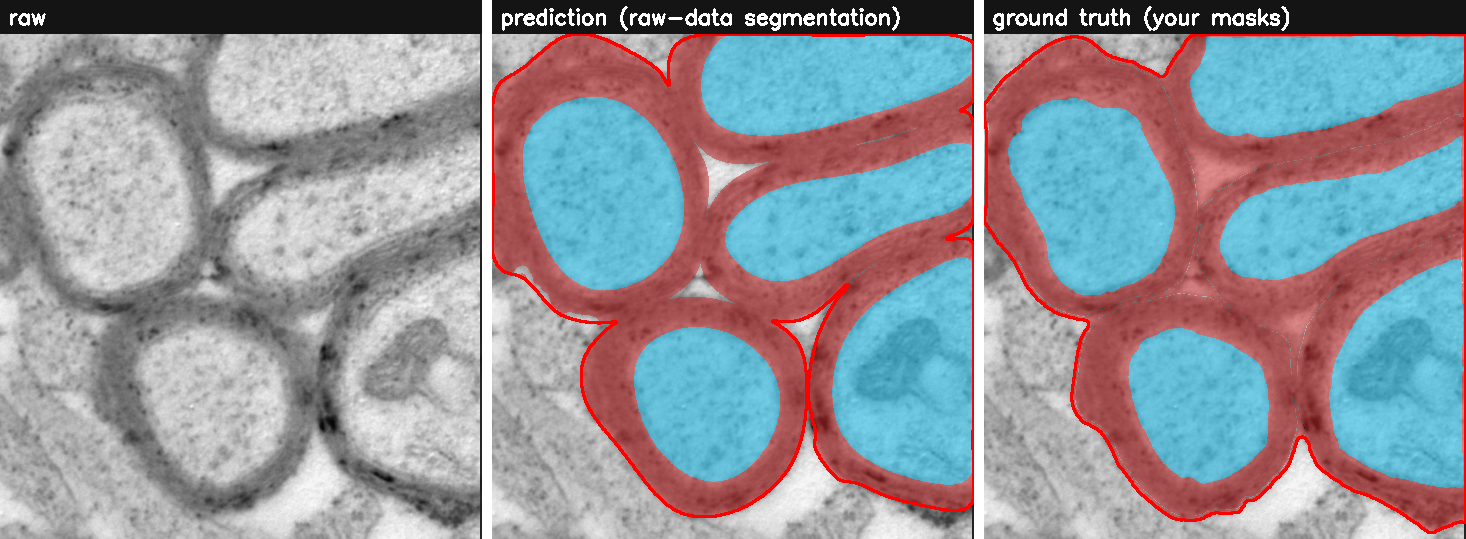
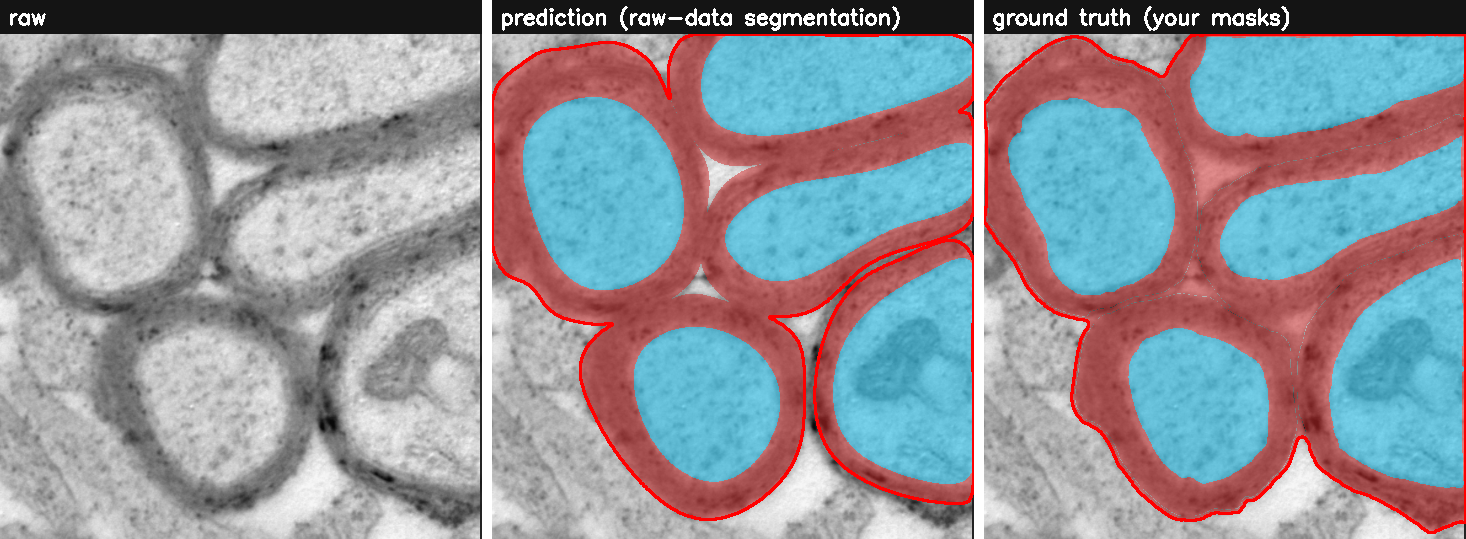
Raise myelin fill threshold to capture lighter lamellae (R21)
Diagnosed the binding constraint on myelin IoU: it was not the outer cap but the
dark threshold. ~20-33% of the hand-traced myelin (sample_01 33%, sample_02 27%,
sample_03 19%) is BRIGHTER than myelin_fill_percentile=34, so it was never marked
as dark material and no cap could recover it -- the tracer includes lighter
transitional lamellae/inclusions the percentile excludes.

Fix: raise myelin_fill_percentile 34->42 to capture them. Because it is decoupled
from the axon-separation threshold (myelin_percentile=28), the inter-axon walls
stay tight -- recall 1.00, no false positives. The extra dark material would
over-reach on the open extracellular side, so the measured-thickness cap is
tightened in tandem (myelin_thickness_mult 3.0->2.5) to absorb it (2D-searched).

Result (full evaluator, recall 1.00/1.00, 38 tests pass):
  mean myelin IoU 0.772 -> 0.795, fiber 0.909 -> 0.927
  sample_01 (most under-captured): myelin 0.71 -> 0.82, fiber 0.88 -> 0.95
  sample_02: myelin 0.795 -> 0.787 (~flat); sample_03: 0.809 -> 0.781
Net gain that attacks the true ceiling (threshold) rather than the cap.
Also ruled out (kept in notes): stronger fiber-smoothing (eats real myelin) and a
neighbour-arbiter corridor rule (only +0.003, walls exceed both caps).

diff --git a/gratio/pipeline.py b/gratio/pipeline.py
@@ -59,7 +59,11 @@ DEFAULTS = dict(
     remove_scalebar=True,     # detect & inpaint a burn-in scale-bar ruler + label before segmenting
     bilateral=(9, 75, 75),    # OpenCV bilateralFilter (d, sigmaColor, sigmaSpace)
     myelin_percentile=28,     # darkest X% of pixels treated as myelin (axon separation / detection)
-    myelin_fill_percentile=34,  # more inclusive % for the band + inner border (None -> = myelin_percentile)
+    myelin_fill_percentile=42,  # more inclusive % for the band + inner border (None -> = myelin_percentile).
+                              # Decoupled from myelin_percentile (axon separation) so it can be raised to
+                              # capture the lighter transitional lamellae the hand tracer includes -- ~20-33%
+                              # of GT myelin is brighter than the separation threshold -- without loosening
+                              # the walls that separate axons (recall stays 1.0).
     speckle_min=40,           # drop myelin connected components smaller than this (px)
     close_fiber=27,           # seal broken rings to isolate axon bodies
     myelin_close=11,          # close thin inter-lamellar gaps (keeps large gaps open)
@@ -69,7 +73,7 @@ DEFAULTS = dict(
     min_solidity=0.90,        # reject corner pockets / leaky bodies (real axons are convex)
     bright_margin=-25,        # axon-body mean intensity must exceed median(image)+margin (mild floor)
     touch_dilate=5,           # myelin must touch the axon within this many px
-    myelin_thickness_mult=3.0,  # outer myelin cap = this multiple of the axon's OWN measured
+    myelin_thickness_mult=2.5,  # outer myelin cap = this multiple of the axon's OWN measured
                               # ring thickness (the median distance-to-axon of the dark material
                               # hugging it). This bounds how far the band grows outward so an
                               # isolated fibre does not vacuum up dark extracellular material that

diff --git a/docs/reference/user_masks.md b/docs/reference/user_masks.md
@@ -125,10 +125,10 @@ no false positives**, then maximise class overlap.
 
 | sample     | axon IoU | myelin IoU | fibre IoU | detect P / R |
 |------------|---------:|-----------:|----------:|:------------:|
-| sample_01  | 0.92 | 0.71 | 0.88 | 1.00 / 1.00 |
-| sample_02  | 0.96 | 0.80 | 0.90 | 1.00 / 1.00 |
-| sample_03  | 0.92 | 0.81 | 0.95 | 1.00 / 1.00 |
-| **mean**   | **0.94** | **0.77** | **0.91** | **1.00 / 1.00** |
+| sample_01  | 0.92 | 0.82 | 0.95 | 1.00 / 1.00 |
+| sample_02  | 0.96 | 0.79 | 0.90 | 1.00 / 1.00 |
+| sample_03  | 0.92 | 0.78 | 0.93 | 1.00 / 1.00 |
+| **mean**   | **0.94** | **0.80** | **0.93** | **1.00 / 1.00** |
 
 (baseline before tuning was axon 0.74 / myelin 0.51 / fibre 0.80, recall 0.80.)
 
@@ -229,8 +229,24 @@ read the g-ratio high; sample_02 g fell 0.81 → 0.73, close to the hand-traced
    An optional absolute ceiling (`myelin_band`, default off) remains for datasets
    that need to hard-limit the measured cap (e.g. inverted-contrast SEM).
 
+7. *Lighter lamellae fell below the dark threshold* (R21). The binding limit on
+   myelin IoU was not the cap but the fill threshold: ~20-33 % of the hand-traced
+   myelin (sample_01 33 %, sample_02 27 %, sample_03 19 %) is **brighter** than
+   `myelin_fill_percentile=34`, so it was never marked as dark material and no cap
+   could recover it — the hand tracer includes lighter transitional lamellae and
+   inclusions the percentile excludes. Raising the fill threshold to 42 captures
+   them; because it is decoupled from the axon-separation threshold
+   (`myelin_percentile=28`) it does **not** loosen the inter-axon walls, so recall
+   stays 1.0 with no false positives. The extra dark material would over-reach on
+   the open extracellular side, so the thickness cap is tightened in tandem
+   (`myelin_thickness_mult` 3.0 → 2.5) to absorb it. Net: mean myelin 0.77 → 0.80,
+   fibre 0.91 → 0.93; sample_01 (most under-captured) myelin 0.71 → 0.82, fibre
+   0.88 → 0.95. The trade redistributes slightly toward the harder malformed
+   cluster (sample_03 myelin −0.03) but is a clear net gain and attacks the true
+   ceiling rather than the cap.
+
 The relevant `segment` defaults are now `myelin_percentile=28`,
-`myelin_fill_percentile=34`, `myelin_thickness_mult=3.0`, `min_axon_frac=0.02`,
+`myelin_fill_percentile=42`, `myelin_thickness_mult=2.5`, `min_axon_frac=0.02`,
 `enclose_outer_vacuoles=True`; the thresholds are calibrated against this ground
 truth but the outer-myelin cap is now scale-free and prior-free.
 

diff --git a/docs/reference/continuation.md b/docs/reference/continuation.md
@@ -9,9 +9,9 @@ Current agreement (`evaluate_segmentation.py`, means over the 3 TEM samples):
 
 | metric | value |
 |--------|-------|
-| axon IoU   | 0.93 |
-| myelin IoU | 0.76 |
-| fibre IoU  | 0.90 |
+| axon IoU   | 0.94 |
+| myelin IoU | 0.80 |
+| fibre IoU  | 0.93 |
 | detection precision / recall | **1.00 / 1.00** |
 
 (Baseline before any tuning was axon 0.74 / myelin 0.51 / fibre 0.80, recall 0.80.)
@@ -47,9 +47,9 @@ Diagnostics used during tuning (kept for reference):
 
 | param | value | purpose / requirement |
 |-------|-------|-----------------------|
-| `myelin_percentile` / `myelin_fill_percentile` | 28 / 34 | decouple axon-separation threshold from the myelin-band threshold (fixed under-captured myelin without spawning false axons) — R10/R11 |
+| `myelin_percentile` / `myelin_fill_percentile` | 28 / 42 | decouple axon-separation threshold from the myelin-band threshold; the fill % is raised to capture lighter lamellae (~20-33% of GT myelin is brighter than the separation %) without spawning false axons — R10/R11/**R21** |
 | `min_axon_frac` | 0.02 | size floor that culls false-positive background pockets while keeping every real axon — R11 |
-| `myelin_thickness_mult` | 3.0 | outer myelin cap = this × the axon's **own measured ring thickness**; scale-free (no pixel constant) and independent of axon radius (no g-ratio circularity). Replaced the `myelin_band`/`myelin_band_floor` radius+pixel cap — R15/R18/**R20** |
+| `myelin_thickness_mult` | 2.5 | outer myelin cap = this × the axon's **own measured ring thickness**; scale-free (no pixel constant) and independent of axon radius (no g-ratio circularity). Replaced the `myelin_band`/`myelin_band_floor` radius+pixel cap — R15/R18/**R20**; tightened 3.0→2.5 to absorb the extra dark from R21 |
 | `axon_otsu_bias` | 10 | per-fibre Otsu peel places the axolemma at the true inner-myelin edge — R13 |
 | `axon_smooth_frac` | 0.6 | smooth the axon border into a simple curve — R13 |
 | `fiber_smooth_frac` | 0.2 | smooth the fibre outer envelope, remove spikes — R15 |
